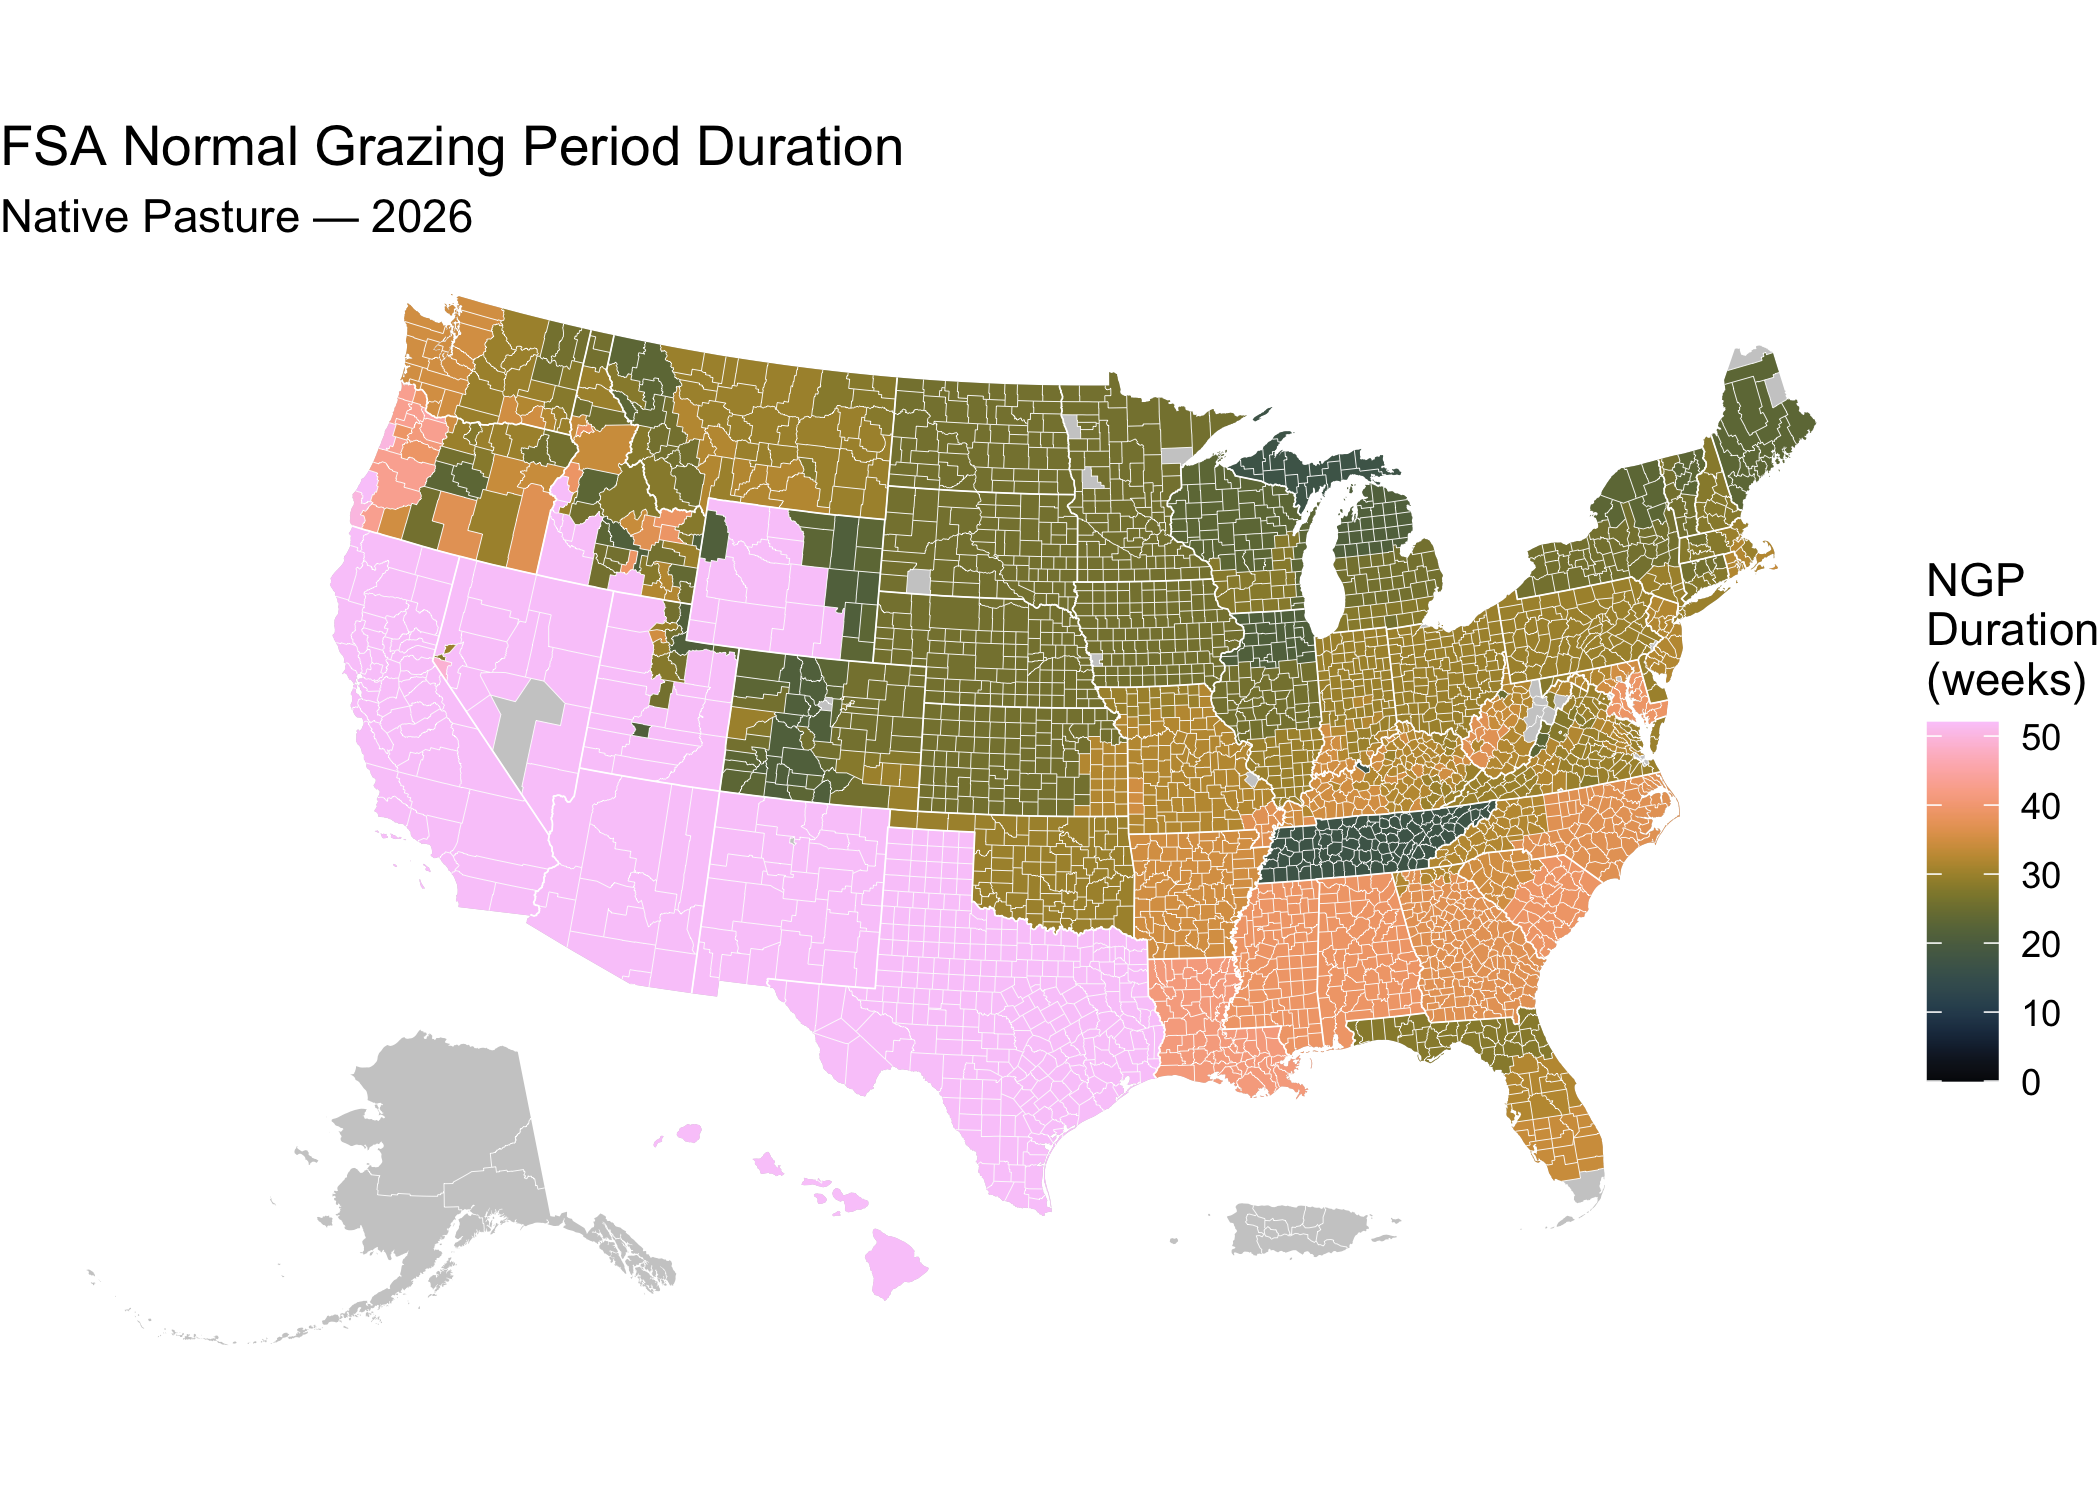
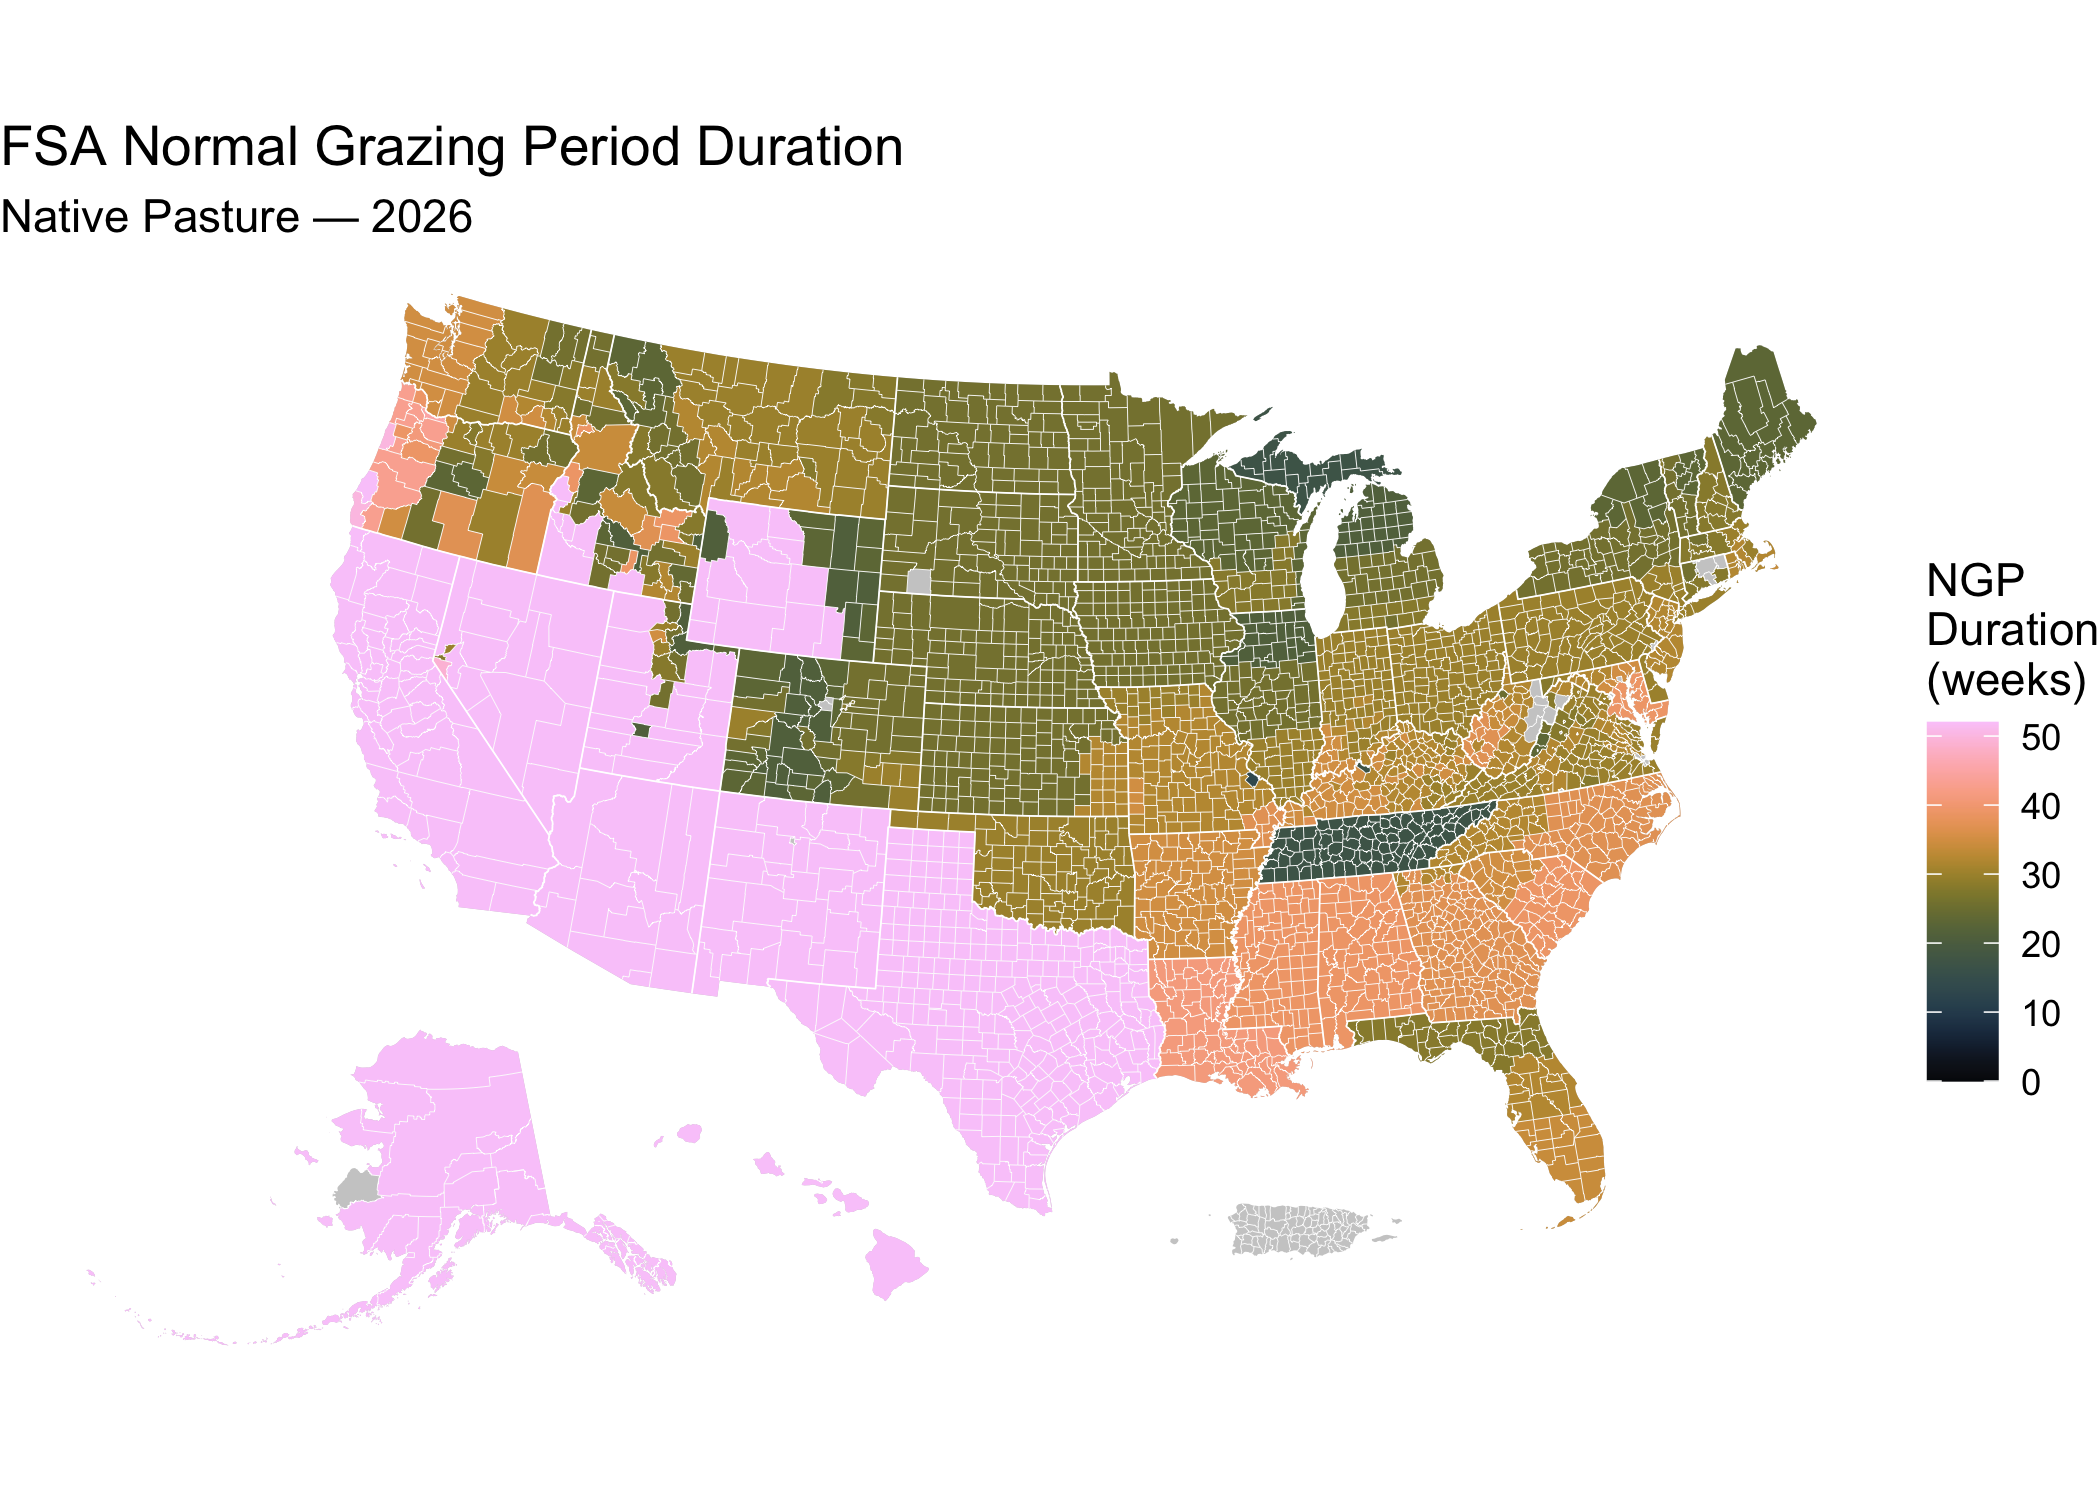
updated readme

diff --git a/README.md b/README.md
@@ -1,6 +1,7 @@
 
+
 [![GitHub
-Release](https://img.shields.io/github/v/release/sustainable-fsa/fsa-normal-grazing-period?label=GitHub%20Release&color=%239c27b0)](https://github.com/sustainable-fsa/fsa-normal-grazing-period)
+Release](https://img.shields.io/github/v/release/sustainable-fsa/fsa-normal-grazing-period?label=GitHub%20Release&color=%239c27b0.png)](https://github.com/sustainable-fsa/fsa-normal-grazing-period)
 [![DOI](https://zenodo.org/badge/814751699.svg)](https://zenodo.org/badge/latestdoi/814751699)
 
 # FSA Normal Grazing Period Archive
@@ -46,13 +47,12 @@ responses, including the original Excel workbook, is archived in the
 
 ## ☁️ Archive Hosting & Automated Publishing
 
-The consolidated data (`fsa-normal-grazing-period.csv`), the
-`assets/` directory the dashboard reads from, and the `foia/`
-correspondence are all mirrored to S3, served via CloudFront at
+The consolidated data (`fsa-normal-grazing-period.csv`), the `assets/`
+directory the dashboard reads from, and the `foia/` correspondence are
+all mirrored to S3, served via CloudFront at
 <https://data.sustainable-fsa.com/fsa-normal-grazing-period/> (browse
 the [archive
-listing](https://data.sustainable-fsa.com/fsa-normal-grazing-period/)
-or
+listing](https://data.sustainable-fsa.com/fsa-normal-grazing-period/) or
 [`_manifest.txt`](https://data.sustainable-fsa.com/fsa-normal-grazing-period/_manifest.txt)
 for a flat index). The interactive dashboard itself is served
 separately, via GitHub Pages at
@@ -78,16 +78,52 @@ for each pasture type, county, and program year.
 
 ### Key Variables
 
-| Variable Name | Description |
-|----|----|
-| `Program Year` | Year the data applies to |
-| `State Name` | U.S. state |
-| `County Name` | County or county-equivalent name |
-| `State FSA Code` | FSA-assigned state code (not always ANSI/FIPS) |
-| `County FSA Code` | FSA-assigned county code (not always ANSI/FIPS) |
-| `Pasture Grazing Type` | Pasture classification (e.g., Native, Improved) |
-| `Normal Grazing Period Start Date` | Start date of typical grazing period |
-| `Normal Grazing Period End Date` | End date of typical grazing period |
+<table>
+<colgroup>
+<col style="width: 40%" />
+<col style="width: 59%" />
+</colgroup>
+<thead>
+<tr>
+<th>Variable Name</th>
+<th>Description</th>
+</tr>
+</thead>
+<tbody>
+<tr>
+<td><code>Program Year</code></td>
+<td>Year the data applies to</td>
+</tr>
+<tr>
+<td><code>State Name</code></td>
+<td>U.S. state</td>
+</tr>
+<tr>
+<td><code>County Name</code></td>
+<td>County or county-equivalent name</td>
+</tr>
+<tr>
+<td><code>State FSA Code</code></td>
+<td>FSA-assigned state code (not always ANSI/FIPS)</td>
+</tr>
+<tr>
+<td><code>County FSA Code</code></td>
+<td>FSA-assigned county code (not always ANSI/FIPS)</td>
+</tr>
+<tr>
+<td><code>Pasture Grazing Type</code></td>
+<td>Pasture classification (e.g., Native, Improved)</td>
+</tr>
+<tr>
+<td><code>Normal Grazing Period Start Date</code></td>
+<td>Start date of typical grazing period</td>
+</tr>
+<tr>
+<td><code>Normal Grazing Period End Date</code></td>
+<td>End date of typical grazing period</td>
+</tr>
+</tbody>
+</table>
 
 ------------------------------------------------------------------------
 
@@ -107,10 +143,10 @@ The processing script
 - Handling duplicate and misassigned counties (e.g., Shoshone County,
   ID).
 
-6.  **Removes invalid or duplicate entries**.
-7.  **Exports** the cleaned data to
+1.  **Removes invalid or duplicate entries**.
+2.  **Exports** the cleaned data to
     [`fsa-normal-grazing-period.csv`](https://data.sustainable-fsa.com/fsa-normal-grazing-period/fsa-normal-grazing-period.csv).
-8.  **Renders** an interactive Quarto dashboard.
+3.  **Renders** an interactive Quarto dashboard.
 
 ------------------------------------------------------------------------
 
@@ -122,17 +158,57 @@ is a tidy dataset for analysis and visualization.
 
 ### Variables in Output
 
-| Variable Name | Description |
-|----|----|
-| `Program Year` | Year the data applies to |
-| `State Name` | Full U.S. state name |
-| `County Name` | County or county-equivalent name |
-| `State FSA Code` | FSA state code (not always ANSI/FIPS) |
-| `County FSA Code` | FSA county code (not always ANSI/FIPS) |
-| `FSA Code` | Combined `State FSA Code` + `County FSA Code` |
-| `Pasture Type` | Standardized pasture type |
-| `Normal Grazing Period Start Date` | Cleaned and corrected start date |
-| `Normal Grazing Period End Date` | Cleaned and corrected end date |
+<table>
+<colgroup>
+<col style="width: 40%" />
+<col style="width: 59%" />
+</colgroup>
+<thead>
+<tr>
+<th>Variable Name</th>
+<th>Description</th>
+</tr>
+</thead>
+<tbody>
+<tr>
+<td><code>Program Year</code></td>
+<td>Year the data applies to</td>
+</tr>
+<tr>
+<td><code>State Name</code></td>
+<td>Full U.S. state name</td>
+</tr>
+<tr>
+<td><code>County Name</code></td>
+<td>County or county-equivalent name</td>
+</tr>
+<tr>
+<td><code>State FSA Code</code></td>
+<td>FSA state code (not always ANSI/FIPS)</td>
+</tr>
+<tr>
+<td><code>County FSA Code</code></td>
+<td>FSA county code (not always ANSI/FIPS)</td>
+</tr>
+<tr>
+<td><code>FSA Code</code></td>
+<td>Combined <code>State FSA Code</code> +
+<code>County FSA Code</code></td>
+</tr>
+<tr>
+<td><code>Pasture Type</code></td>
+<td>Standardized pasture type</td>
+</tr>
+<tr>
+<td><code>Normal Grazing Period Start Date</code></td>
+<td>Cleaned and corrected start date</td>
+</tr>
+<tr>
+<td><code>Normal Grazing Period End Date</code></td>
+<td>Cleaned and corrected end date</td>
+</tr>
+</tbody>
+</table>
 
 ------------------------------------------------------------------------
 
@@ -148,10 +224,9 @@ provides:
 - A **tool for researchers and policymakers** to assess temporal trends
 
 <iframe src="fsa-normal-grazing-period.html" frameborder="0" allowfullscreen style="width:100%;height:40vw;">
-
 </iframe>
 
-Access a full-screen version of the dashboard at:\
+Access a full-screen version of the dashboard at:  
 <https://data.sustainable-fsa.com/fsa-normal-grazing-period/fsa-normal-grazing-period.html>
 
 ------------------------------------------------------------------------
@@ -170,12 +245,11 @@ library(rmapshaper) # For innerlines function
 
 ## Get the Normal Grazing Period data
 ngp <- 
-  readr::read_csv("fsa-normal-grazing-period.csv")
+  readr::read_csv("https://data.sustainable-fsa.com/fsa-normal-grazing-period/fsa-normal-grazing-period.csv")
 
-## The Normal Grazing Period data files use FSA county definitions
-## Download from the FSA_Counties_dd17 archive
+## The Normal Grazing Period data files use Census county definitions
 counties <- 
-  sf::read_sf("https://data.sustainable-fsa.com/fsa-counties-dd17/fsa-counties-dd17.topojson",
+  sf::read_sf("assets/us-census-counties.topojson",
               layer = "counties") |>
   sf::st_set_crs("EPSG:4326") |>
   sf::st_transform("EPSG:5070")
@@ -223,7 +297,7 @@ ggplot(counties) +
   theme_void()
 ```
 
-<img src="./example-1.png" alt="" style="display: block; margin: auto;" />
+<img src="./example-1.png" data-fig-align="center" />
 
 ------------------------------------------------------------------------
 
@@ -294,8 +368,8 @@ Locator**](https://offices.sc.egov.usda.gov/locator/app)
 This project is part of:
 
 **[*Enhancing Sustainable Disaster Relief in FSA
-Programs*](https://www.ars.usda.gov/research/project/?accnNo=444612)**\
-Supported by USDA OCE/OEEP and USDA Climate Hubs\
+Programs*](https://www.ars.usda.gov/research/project/?accnNo=444612)**  
+Supported by USDA OCE/OEEP and USDA Climate Hubs  
 Prepared by the [Montana Climate Office](https://climate.umt.edu)
 
 ------------------------------------------------------------------------